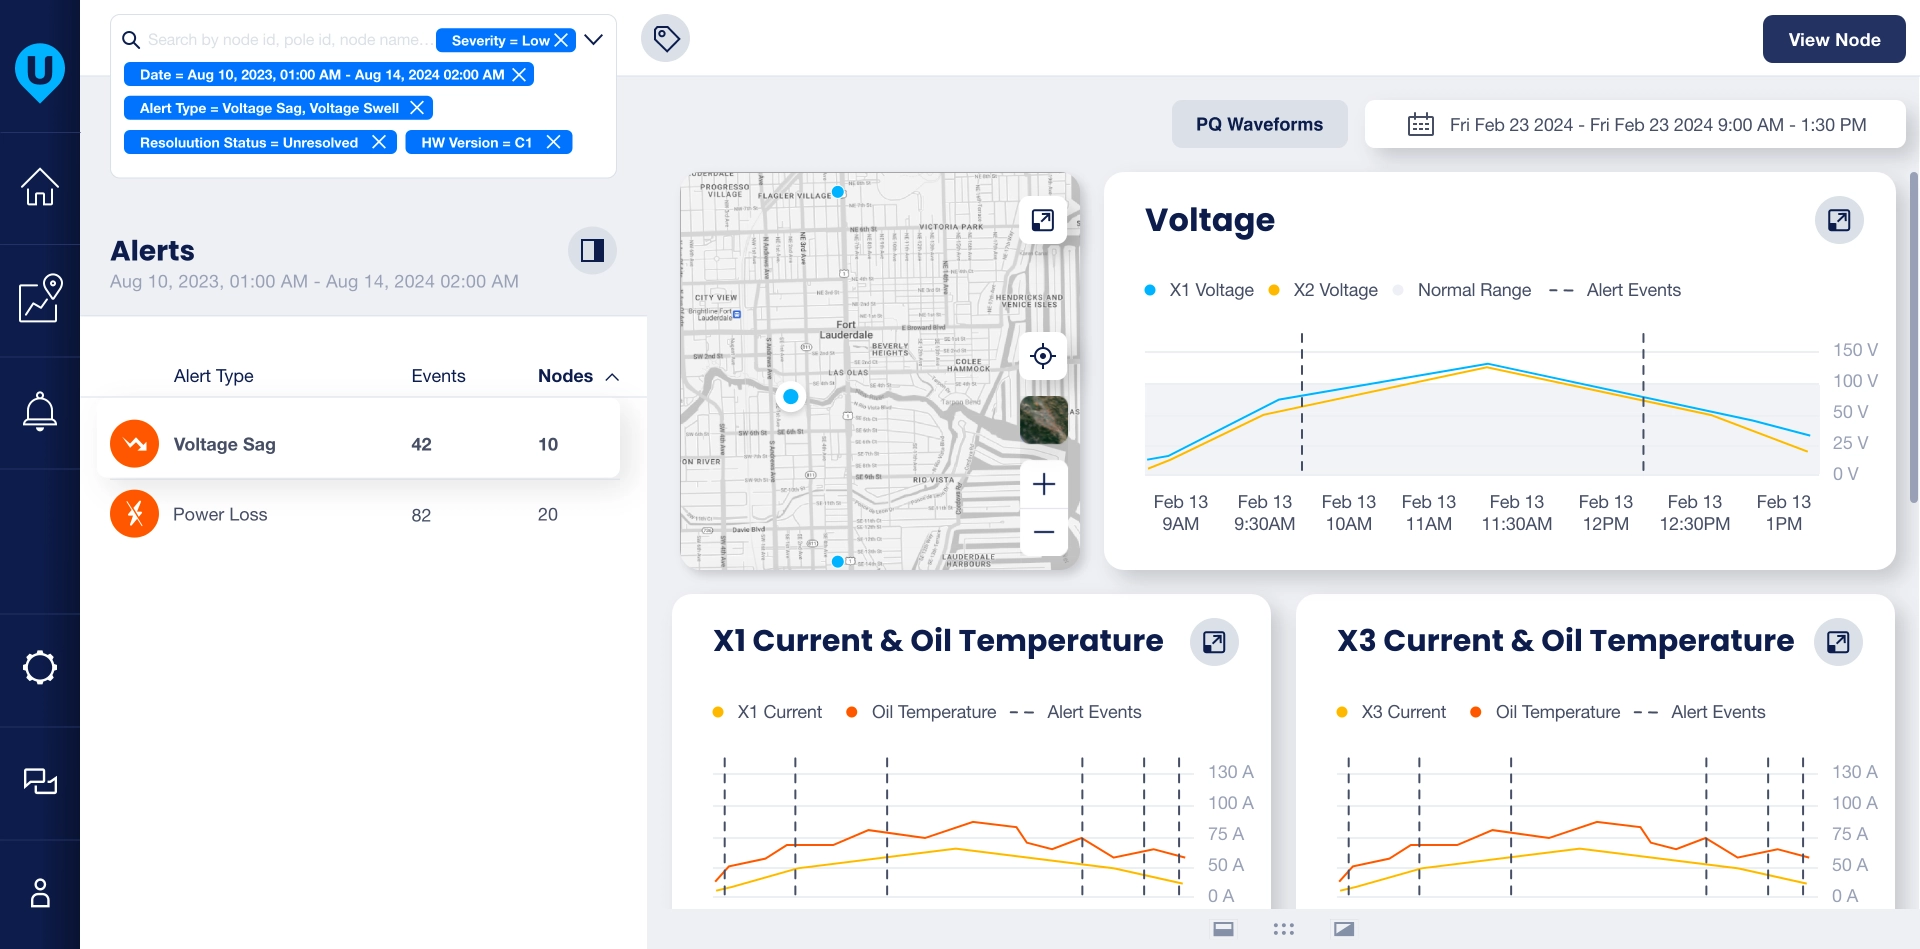
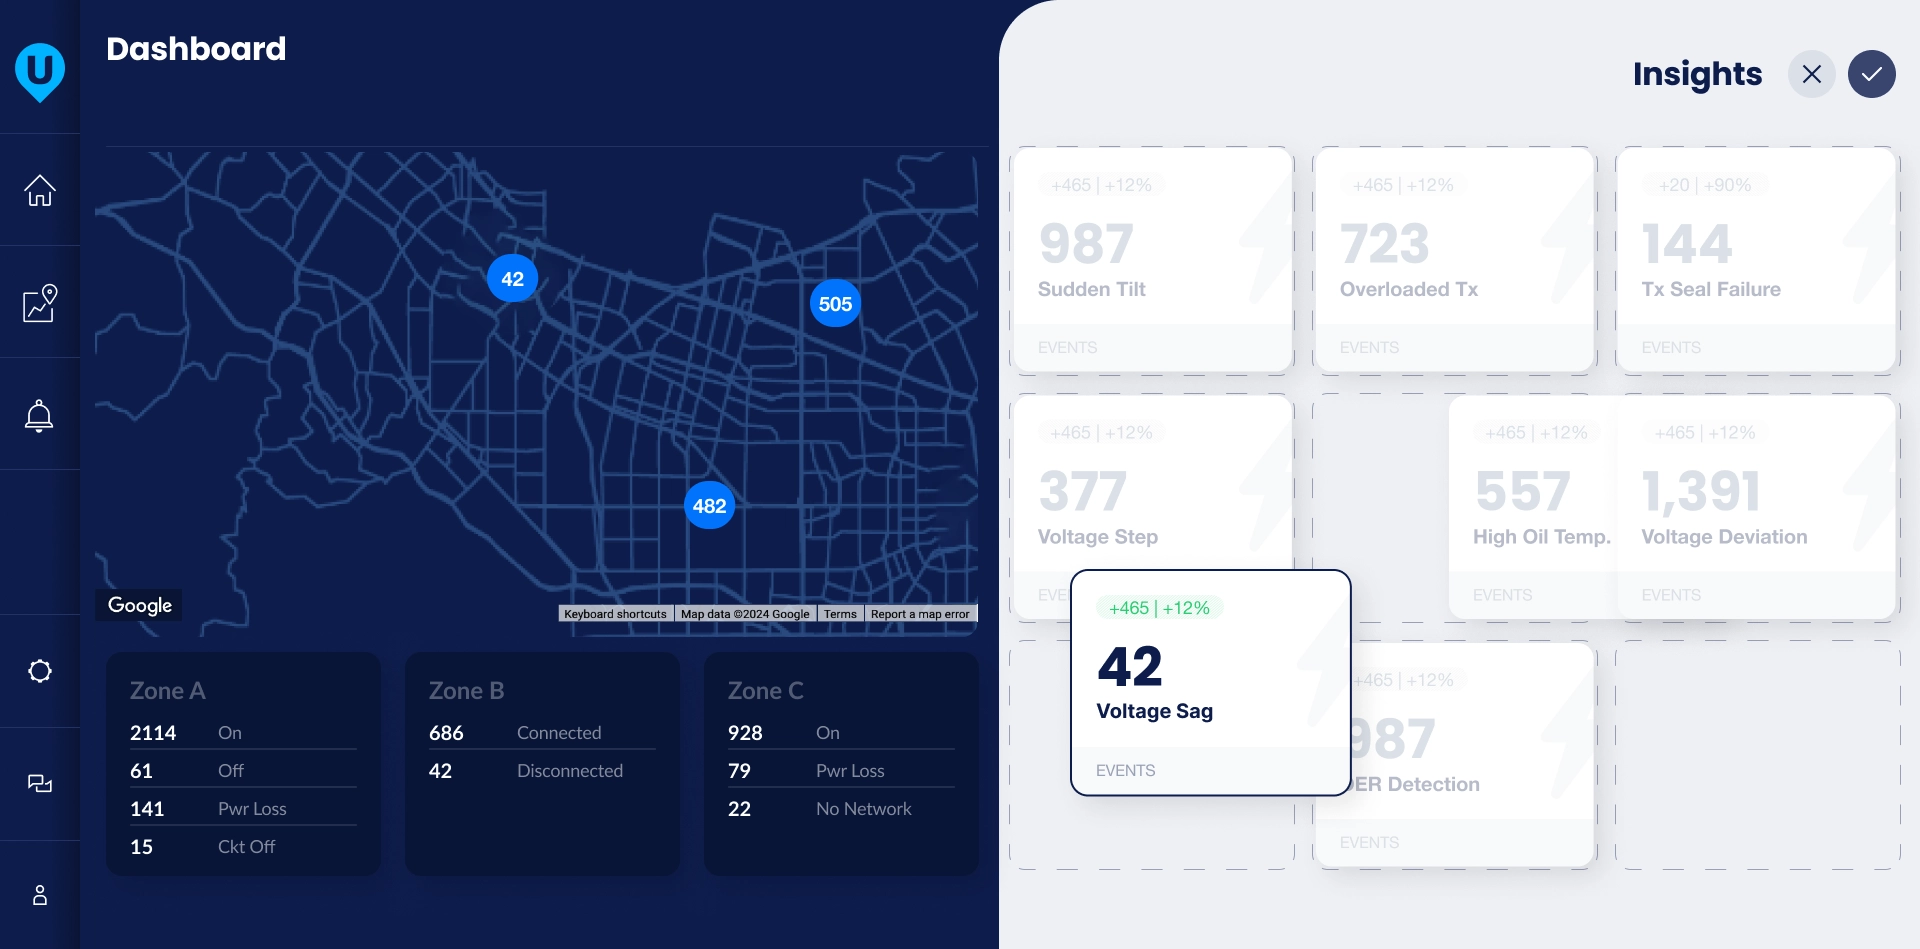
udpates to Event Investigation

diff --git a/emailModal.html b/emailModal.html
@@ -155,11 +155,11 @@
       <div class="">
         <img src="https://matomaton.github.io/assets/Interview.webp">
             </div>
-            <p>Uncovered insights through interviews with field technicians and grid operators.</p>
+            <p> I uncovered insights through interviews with field technicians and grid operators.</p>
          <ul>
           <li>Current tools force them to be reactive rather than proactive</li>
           <li>Lack of context makes it difficult to prioritize issues</li>
-          <li>Sending crews to fix equiopment is expensive</li>
+          <li>Sending crews to fix equipment is expensive</li>
          </ul>
         </section>
   <!--Data Science Collaboration-->
@@ -169,9 +169,9 @@
       <div class="">
         <img src="https://matomaton.github.io/assets/WaveForm.webp">
             </div>
-            <p>Partnered with the data science team</p>
+            <p> I partnered with the data science team</p>
          <ul>
-          <li>Defined key metrics for different types of events</li>
+          <li>Defined key metrics for different types of grid events</li>
           <li>Identified machine learning abilites for predictive notifications</li>
           <li>Discoved opportunites for automated anomaly detection</li>
          </ul>
@@ -185,7 +185,7 @@
           <img src="https://matomaton.github.io/assets/customDash.webp">
           </div>
          <ul>
-          <li>Customizable dashboard with drag-and-drop metric arrangement</li>
+          <li>Drag-and-drop prioritized arrangement of metrics</li>
           <li>Aggregated data showing grid-wide health</li>
           <li>AI-powered metrics replacing manual thresholds</li>
          </ul>
